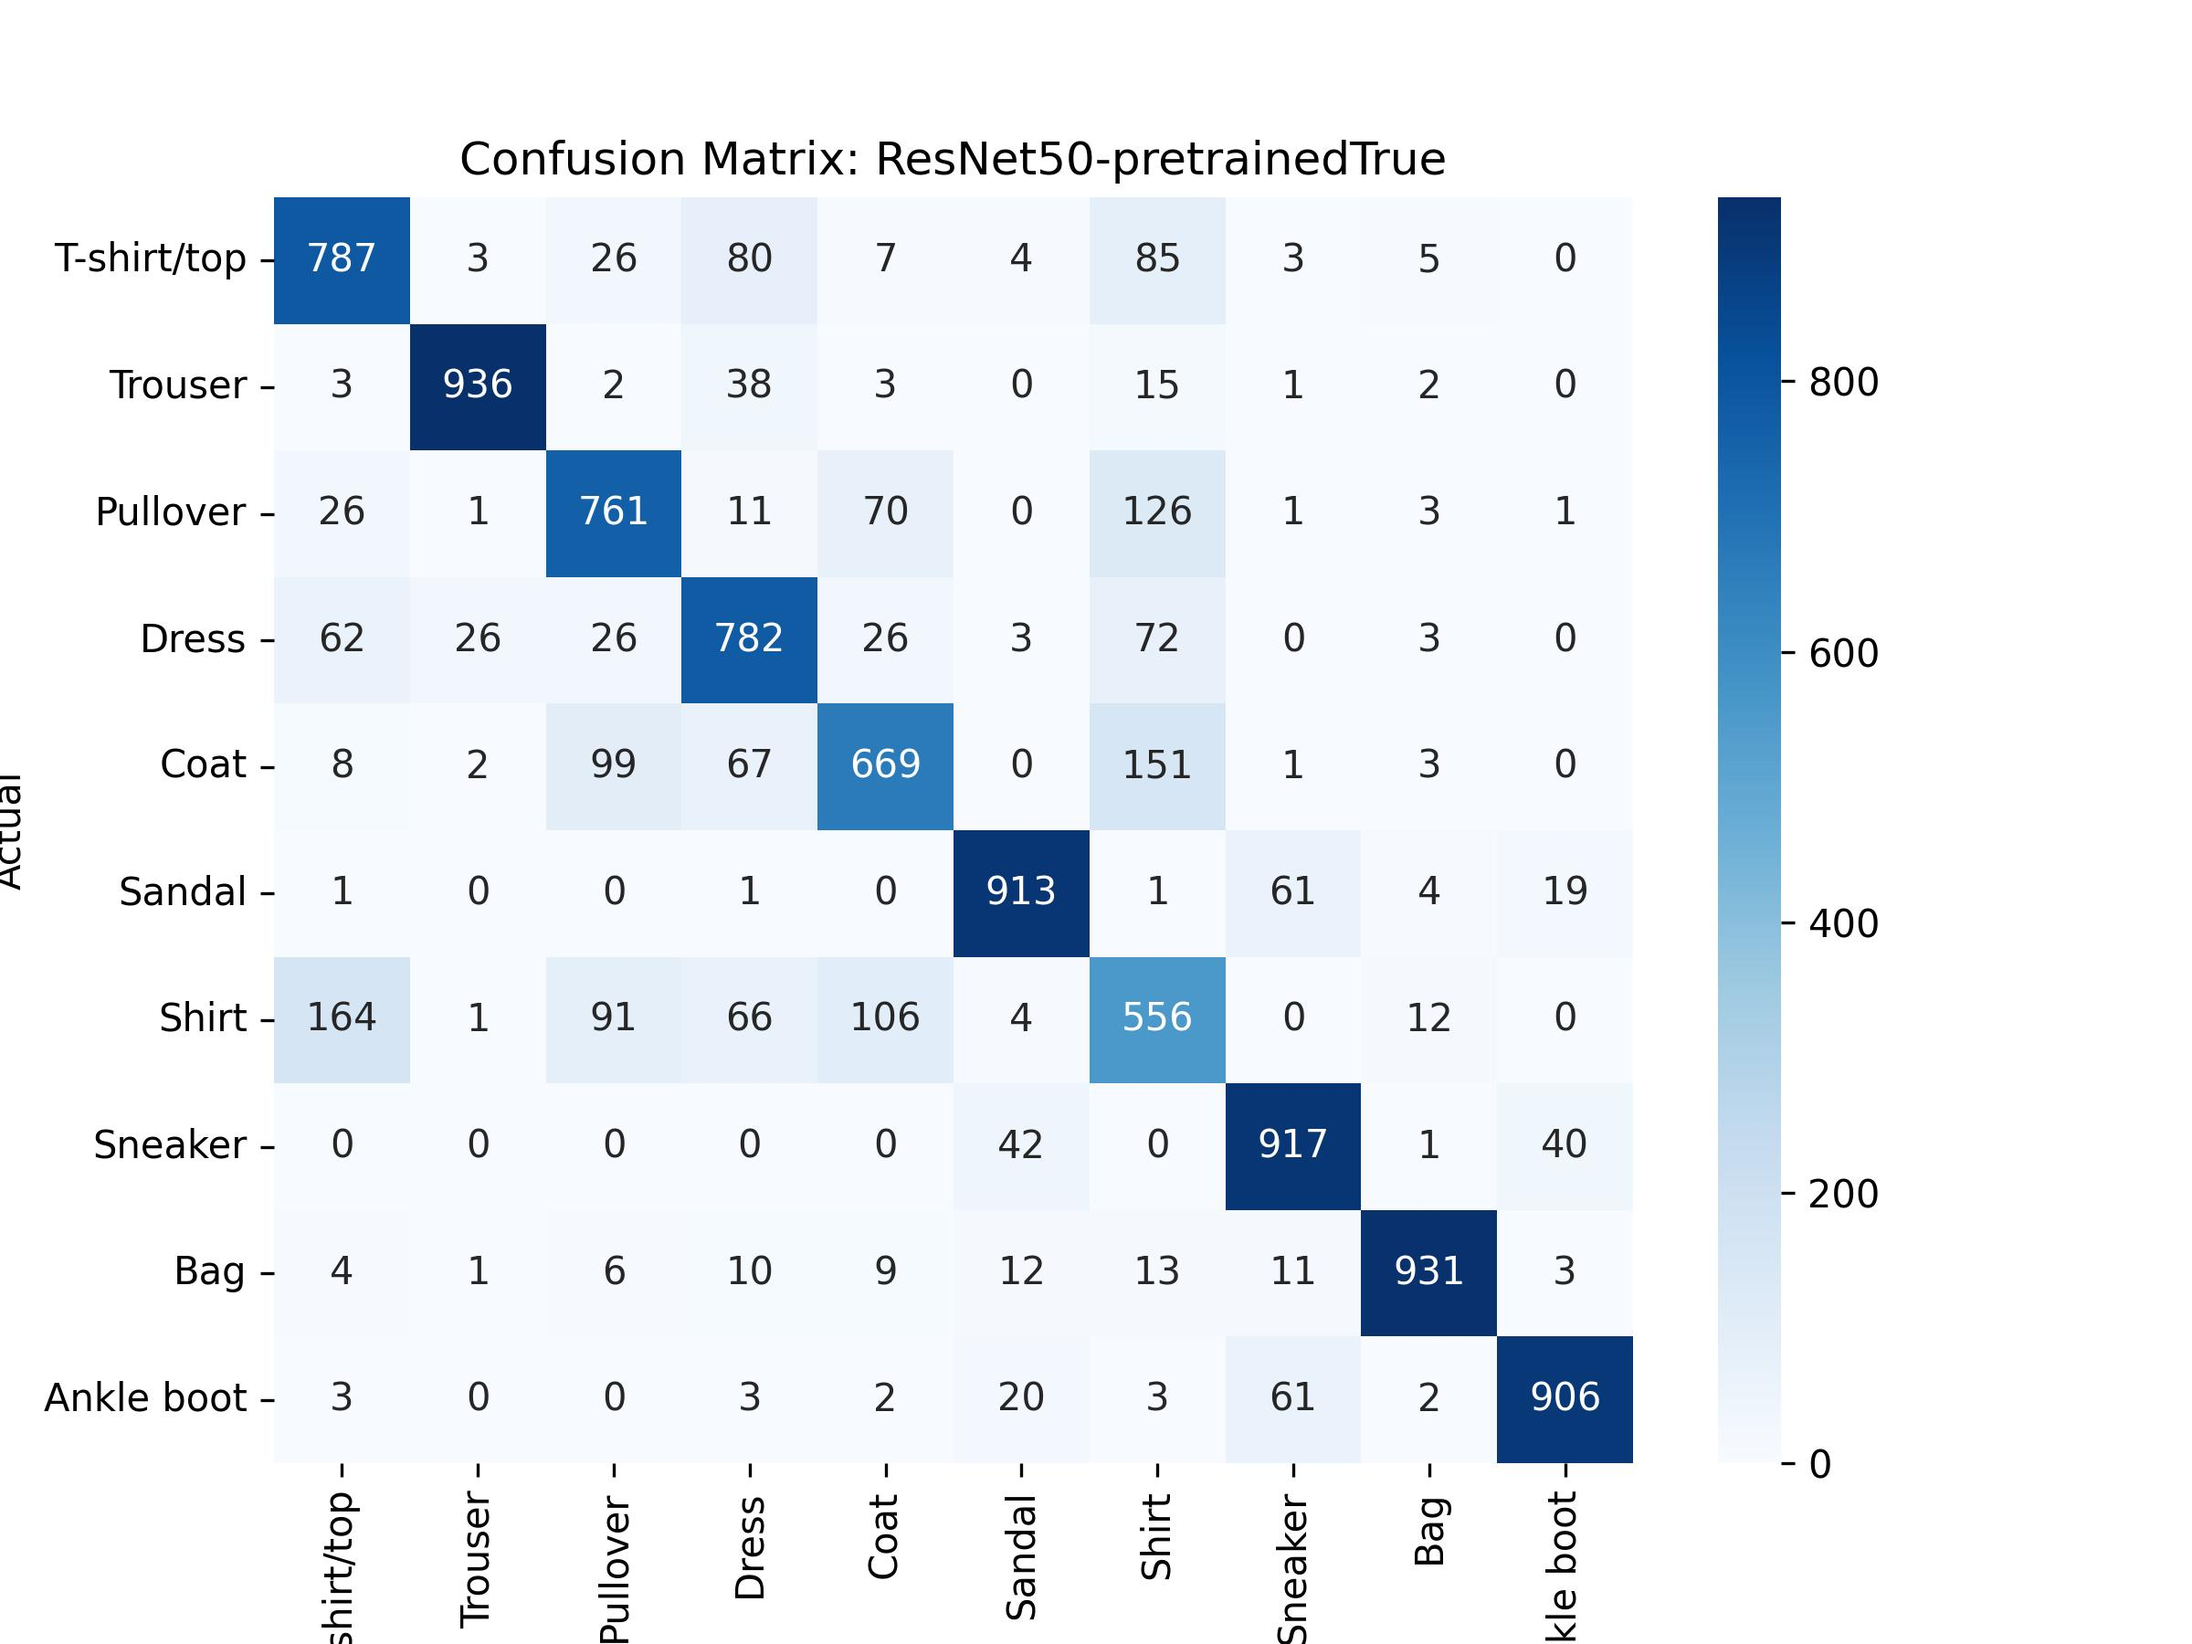
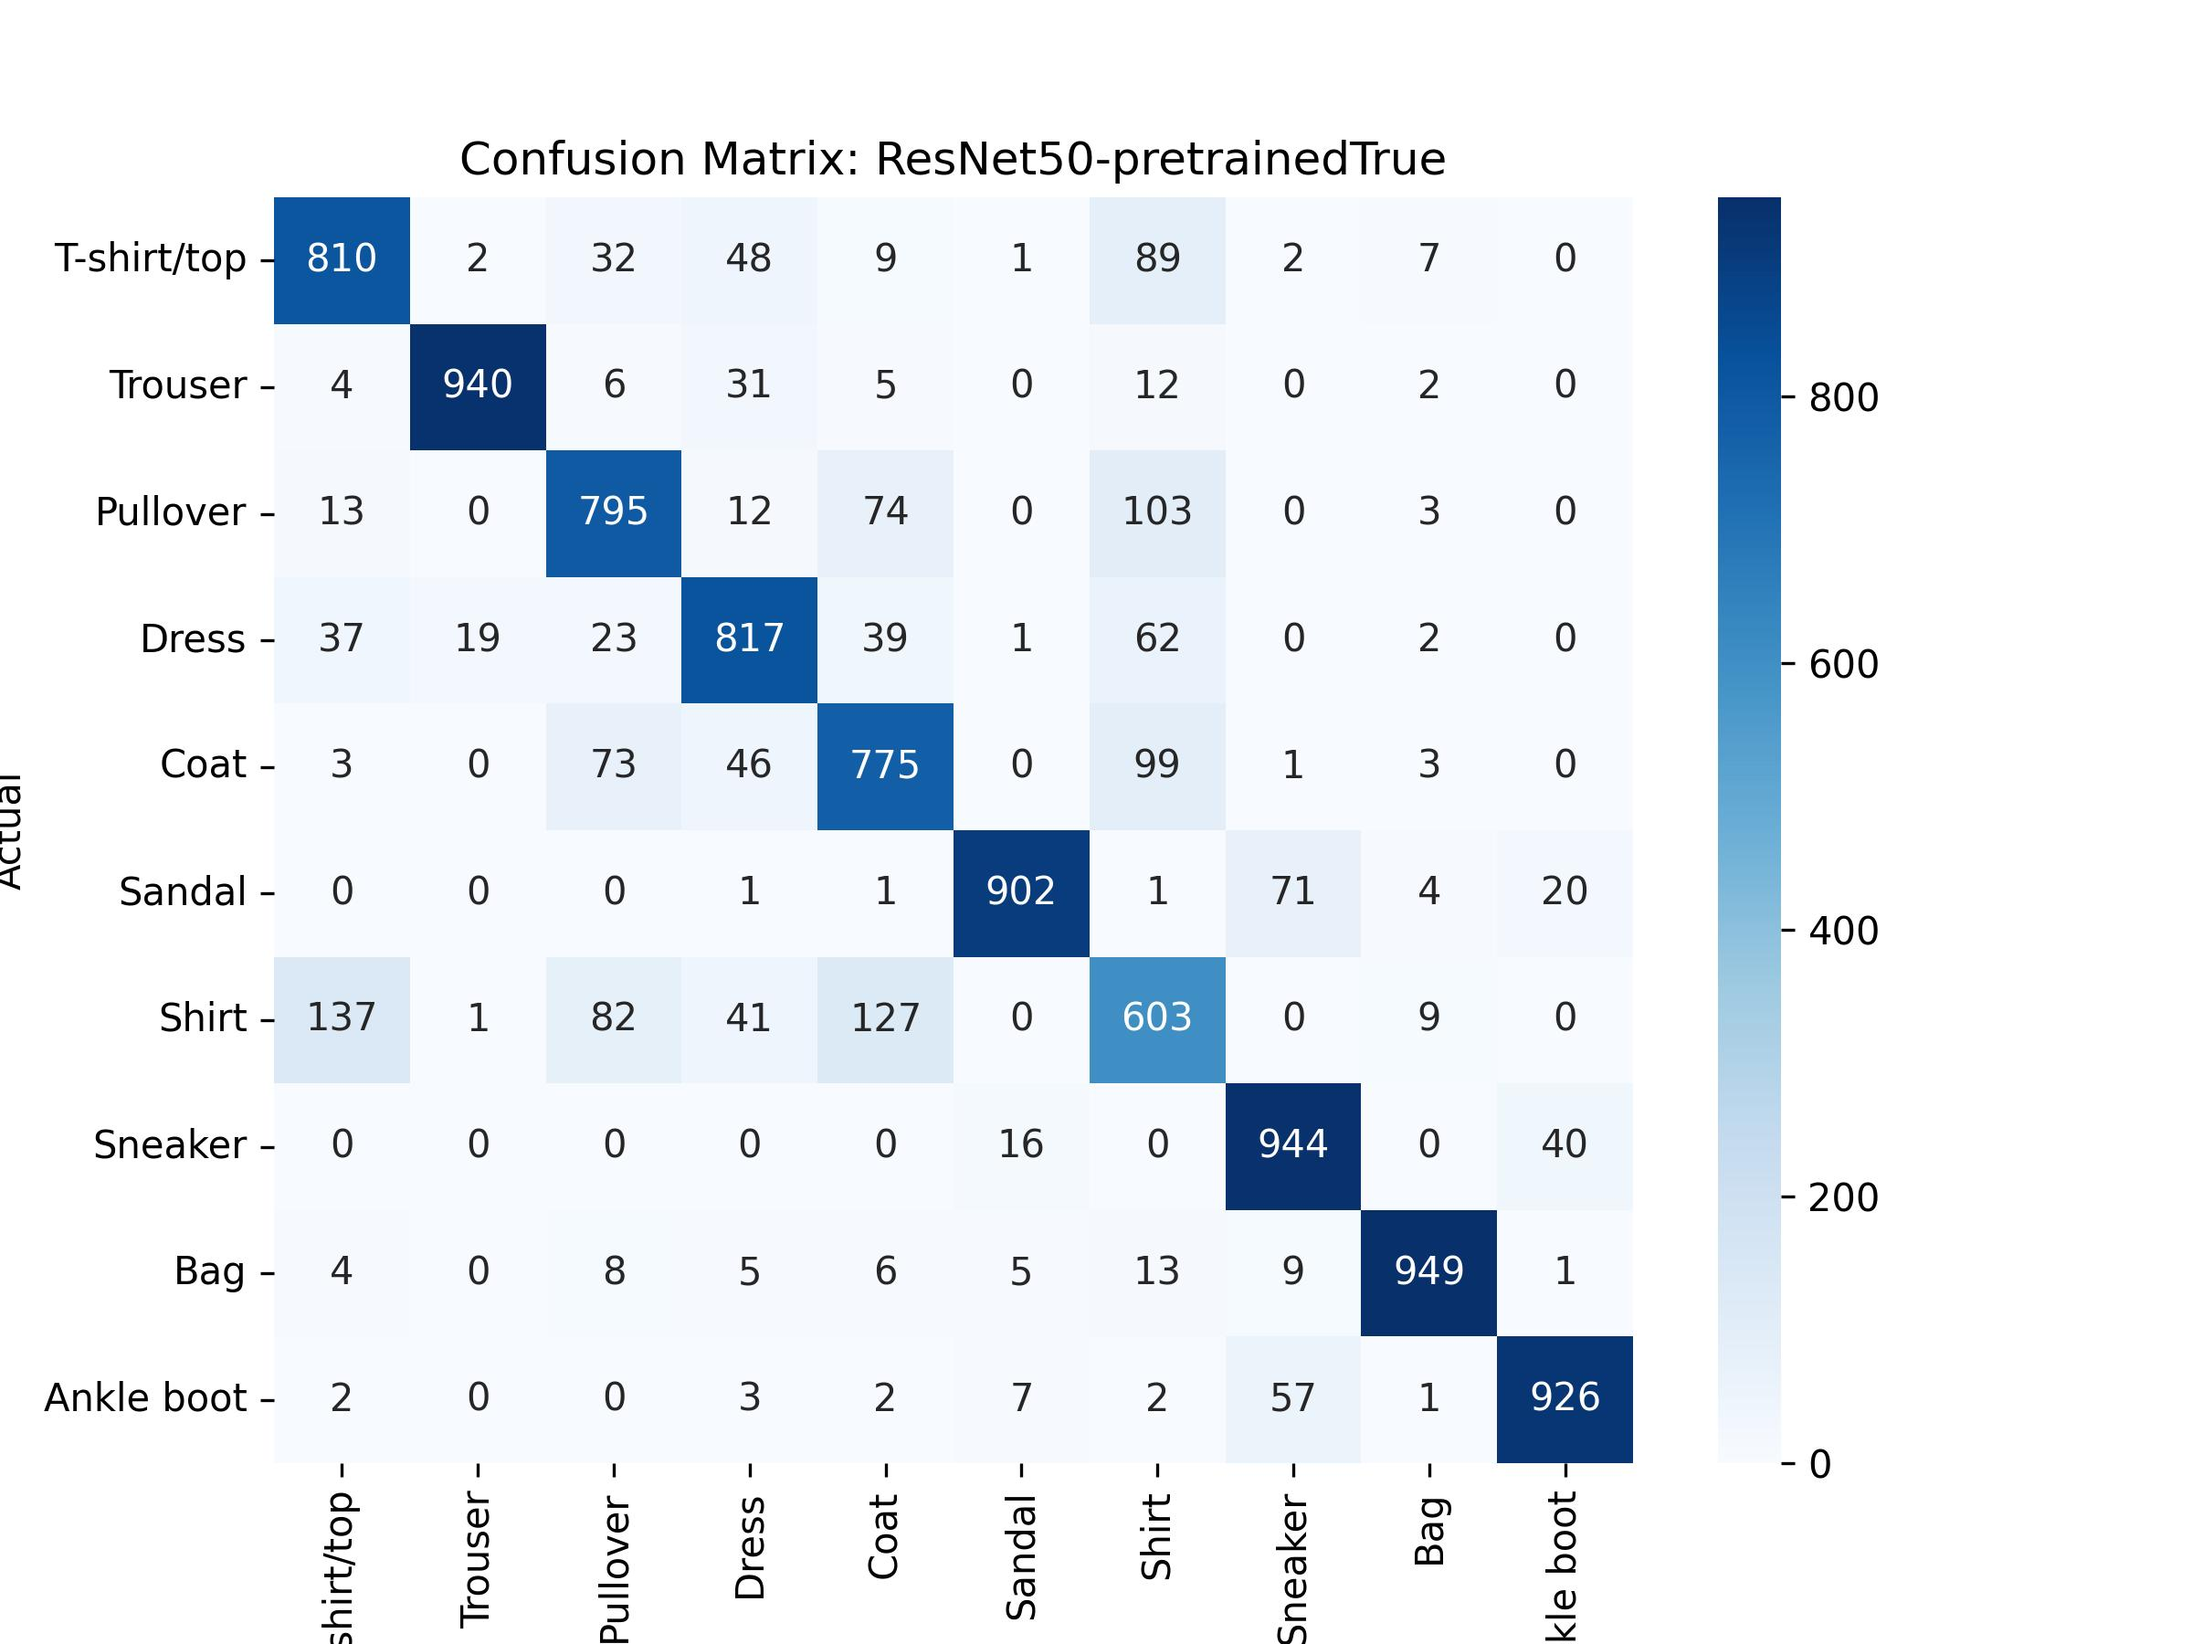
ran experiments for 10 epochs each

diff --git a/src/pretrained_models.py b/src/pretrained_models.py
@@ -149,7 +149,7 @@ for model_name in lst_of_models:
             'model_name':model_name,
             'pretrained_model':flag,
             'batchSize':64,
-            'n_epochs':1,
+            'n_epochs':10,
             'optimizer':'Adam',
             'lr':0.001
         }

diff --git a/reports/pretrained_models.md b/reports/pretrained_models.md
@@ -1,0 +1,3 @@
+# Pretrained Models Experiment Learnings
+
+- Not using pretrained weights provides much worse performance than using pretrained weights, where we do not perform any additional finetuning.
